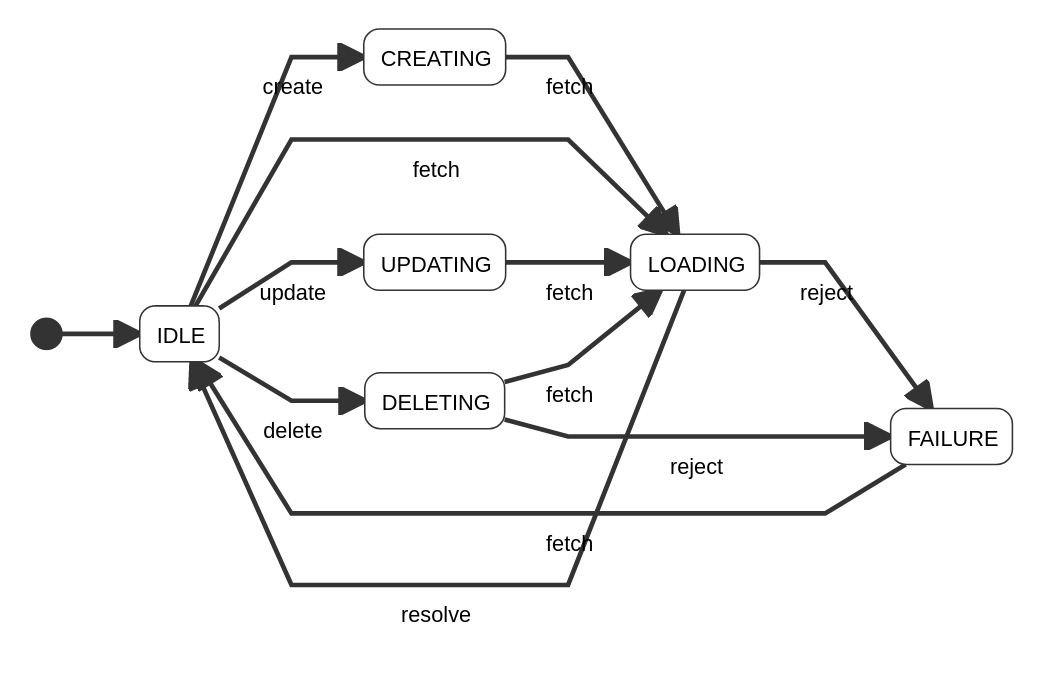
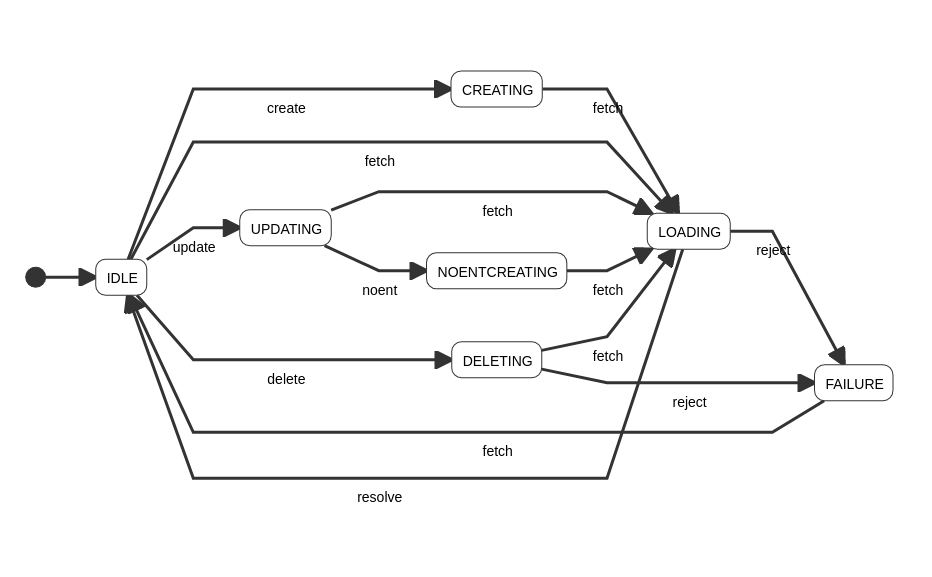
Feature: if item doesn't exist create a new item
- if _one_ todo item is marked as 'completed' in the browser
 - but doesn't exists in the DB, just create a new todo item
  - state: NOENTCREATING
  - event: noent

This feature at the moment only create _one_ new item:
 if there are more items that exist in the browser but not in the DB,
 only the item marked as complete will be created.

IMPORTANT:
This case (item in the browser but not in the DB) should _not_ happen:
 - I had  to delete the item _directly_ in the data base to create
 this issue
 - The idea of this feature is just show how the app will respond to
errors from the data base.

Changed region(s): [[0.0311, 0.0312, 0.9646, 0.9047]]

diff --git a/src/App.js b/src/App.js
@@ -29,7 +29,7 @@ function App() {
   let   [ query, setQuery ]   = useState('');
 
   useEffect(() => {
-
+      
    async  function create() {
        try {
            await axios
@@ -40,6 +40,22 @@ function App() {
                              isCompleted: false 
                          });
            await setQuery('');
+           await dispatch({type: 'fetch'});
+       } catch(error) {
+           await dispatch({type: 'fetch'});
+       }
+    }
+
+   async  function noEntCreate() {
+       try {
+           await axios
+                     .post(
+                         'http://localhost:5000/todo',
+                         {
+                             data: state.noEntQuery,
+                             isCompleted: state.isCompleted
+                         }
+                     );
            await dispatch({type: 'fetch'});
        } catch(error) {
            await dispatch({type: 'fetch'});
@@ -58,10 +74,17 @@ function App() {
 
    async  function update() {
       try {
-        await   axios.put('http://localhost:5000/todo', {id: state.id});
+        await axios.put('http://localhost:5000/todo', {id: state.id});
         await dispatch({type: 'fetch'});
       } catch(error) {
-        await dispatch({type: 'reject',  error});
+          if(error.message === 'Request failed with status code 409') {
+            let noEntTodo   = await state.data.filter( todo => todo._id === state.id);  
+            let noEntQuery  = await noEntTodo[0].data;
+            let isCompleted = await !noEntTodo[0].isCompleted;
+            await dispatch({type: 'noent', noEntQuery, isCompleted });
+          } else { 
+            await dispatch({type: 'reject',  error});
+          }
       }
    }
 
@@ -89,6 +112,10 @@ function App() {
      create();
    }
 
+   if(state.status === 'NOENTCREATING' ) {
+     noEntCreate();
+   }
+      
    // READ
    if(state.status === 'LOADING') {
      read();

diff --git a/src/reducers/todoReducer.js b/src/reducers/todoReducer.js
@@ -20,18 +20,35 @@ function todoReducer(state, event) {
               id: event.id
           }
       },
+
       CREATING: {
-          fetch:  {
-              ...state,
-              status:  'LOADING'
-          }, 
-      },
-      UPDATING: {
           fetch:  {
               ...state,
               status:  'LOADING',
           }, 
       },
+
+      NOENTCREATING: {
+          fetch:  {
+              ...state,
+              status:  'LOADING'
+          }, 
+      },
+ 
+      UPDATING: {
+          fetch:  {
+              ...state,
+              status:  'LOADING',
+          }, 
+          noent:  {
+              ...state,
+              status:     'NOENTCREATING',
+              noEntQuery:  event.noEntQuery,
+              isCompleted: event.isCompleted
+
+          }
+      },
+
       DELETING: {
           fetch:  {
               ...state,
@@ -43,6 +60,7 @@ function todoReducer(state, event) {
               error: event.error
           }
       },
+
       LOADING: {
           resolve: {
               ...state,
@@ -55,6 +73,7 @@ function todoReducer(state, event) {
               error: event.error
           }
       },
+
       FAILURE: {
           fetch:   {
               ...state,
